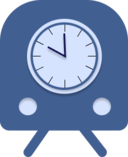
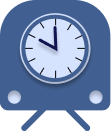
add how to use page

diff --git a/how-to-use.html b/how-to-use.html
@@ -1,0 +1,94 @@
+<!DOCTYPE html>
+<html lang="en">
+
+<head>
+    <meta charset="UTF-8">
+    <meta name="viewport" content="width=device-width, initial-scale=1.0">
+    <title>Tatkal Ticket Booking - How to Use</title>
+    <link rel="icon" type="image/svg" href="images/icon.svg">
+    <link href="https://stackpath.bootstrapcdn.com/bootstrap/4.5.2/css/bootstrap.min.css" rel="stylesheet">
+    <link rel="stylesheet" href="options.css">
+</head>
+
+<body>
+    <div class="container mt-5">
+        <h2>How to Use the Tatkal Ticket Booking Extension</h2>
+        <section class="step-section mt-2">
+            <h3>Fill All the Form Login Details,Train Details,Payment Details</h3>
+            <ol>
+                <li>Fill in your login details. Don't worry, your information is safe and stored securely in your Chrome
+                    local storage.</li>
+                <li>Enter the details of the trains you want to book Tatkal tickets for. You can use the
+                    <code>Go to IRCTC Website</code> button to find the required information and fill it in the form.
+                </li>
+                <li>We provide default payment options via Paytm UPI, which is faster compared to other payment methods.
+                </li>
+                <li>If you want to see the final QR code page for payment, check the box labeled
+                    <code>Pay & Book (Show QR Code Page)</code>.
+                </li>
+                <li>
+                    <strong>Timer Details:</strong>
+                    <ol>
+                        <li><code>Tatkal Start Timer</code>:
+                            <ul>
+                                <li>If you select <code>AC class</code>, Tatkal start timer will be set for
+                                    <code>09:59:45</code>.
+                                </li>
+                                <li>If you select <code>Sleeper class</code>, Tatkal start timer will be set for
+                                    <code>10:59:45</code>.
+                                </li>
+                                <li>We recommend using the default timer settings.</li>
+                            </ul>
+                        </li>
+                        <li><code>Refresh Time (ms)</code>: Default is set to 5000 milliseconds (5 seconds). This will
+                            refresh the train availability status every 5 seconds on the IRCTC page.</li>
+                    </ol>
+                </li>
+                <li>The Tatkal start timer will refresh the selected train every 5 seconds after clicking
+                    the search train button.</li>
+                <li>Once you've filled all the details, click on the <code>Save Settings</code> button.</li>
+            </ol>
+        </section>
+
+        <section class="step-section">
+            <h3>Auto Booking Switch</h3>
+            <ul>
+                <li>If the switch is turned on, the extension will run automatically whenever you visit the IRCTC
+                    website
+                    and attempt to book tickets using the provided settings and passenger details.</li>
+                <li>If the switch is turned off, the extension will not run on the IRCTC page.</li>
+                <li>If the switch is on and Tatkal start timer is set, the extension will automatically log in 2 minutes
+                    before the start timer, and the <code>Go to IRCTC Website</code> button will disappear.</li>
+                <li>If the switch is on and Tatkal start timer is set, and there is less than 2 minutes available before
+                    the start timer, the <code>Book Ticket on IRCTC</code> button will appear, allowing you to book
+                    manually.</li>
+            </ul>
+        </section>
+
+        <section class="step-section">
+            <h3>How to Add a New Passenger</h3>
+            <ol>
+                <li>Fill in the passenger's details including name, age, gender, and preference.</li>
+                <li>Click on the <code>Add Passenger</code> button.</li>
+                <li>The newly added passenger will be automatically selected for Tatkal ticket booking.</li>
+                <li>If you don't want to include a passenger in the booking, you can uncheck or delete them.</li>
+            </ol>
+        </section>
+
+        <section class="step-section">
+            <h3>What to Do on the IRCTC Site While Booking?</h3>
+            <ul>
+                <li>At the login prompt, fill in the captcha and press Enter on your keyboard.</li>
+                <li>At the Review and Captcha Page, a prompt will appear displaying the Current Seats Status: . Use this
+                    information to decide whether to
+                    proceed with booking the ticket. If you decide to proceed, fill in the captcha shown on the page in
+                    the
+                    prompt, then press Enter on your keyboard.</li>
+            </ul>
+        </section>
+
+    </div>
+
+</body>
+
+</html>

diff --git a/options.js b/options.js
@@ -168,8 +168,8 @@ document
   .getElementById('automationStatus')
   .addEventListener('change', function () {
     chrome.storage.local.set({ automationStatus: this.checked });
-    startBookingCountdown();
     updateButtonText();
+    startBookingCountdown();
   });
 
 // Function to start the countdown timer for booking
@@ -239,12 +239,11 @@ function startBookingCountdown() {
           clickTime
         );
         if(timeDifferenceInSeconds<0){
-          // alert('Please set correct tatkal start timer, keep it 15 seconds before the actual tatkal time');
-          // chrome.storage.local.set({automationStatus:false});
+          document.getElementById('book-train').classList.remove('d-none');
           return;
         } 
         setTimeout(clickBookTicketButton, timeDifferenceInSeconds * 1000); // Convert seconds to milliseconds
-
+        document.getElementById('book-train').classList.add('d-none');
         // Update the time remaining on the screen
         updateTimeRemaining(timeDifferenceInSeconds);
 
@@ -283,8 +282,10 @@ async function updateButtonText() {
   const button = document.getElementById('book-train');
 
   if (automationStatus) {
+    button.classList.add('d-none');
     button.textContent = 'Book Ticket on IRCTC';
   } else {
+    button.classList.remove('d-none');
     button.textContent = 'Go To IRCTC Website';
   }
 }

diff --git a/options.css b/options.css
@@ -262,3 +262,34 @@ table select {
   width: 100%;
   height: 40px;
 }
+
+.custom-outline-btn {
+  color: var(--md-sys-color-primary);
+  background-color: transparent;
+  border: 1px solid var(--md-sys-color-primary);
+  padding: 0.375rem 0.75rem;
+  text-decoration: none;
+  font-size: 1rem;
+  line-height: 1.5;
+  border-radius: 0.25rem;
+  transition: color 0.15s ease-in-out, background-color 0.15s ease-in-out, border-color 0.15s ease-in-out,
+      box-shadow 0.15s ease-in-out;
+}
+
+.custom-outline-btn:hover {
+  color: var(--md-sys-color-on-primary);
+  background-color: var(--md-sys-color-primary);
+  border-color: var(--md-sys-color-primary);
+  text-decoration: none;
+}
+
+.step-section {
+  margin-bottom: 20px;
+  background-color: var(--md-sys-color-primary-container);
+  border-radius: 20px;
+  padding: 20px;
+}
+.how-to-use{
+  background-color: var(--md-sys-color-primary-container);
+  color: var(--md-sys-color-on-primary-container);
+}

diff --git a/options.html b/options.html
@@ -15,7 +15,12 @@
   <div class="container mt-5">
     <div class="row align-items-center">
       <div class="col">
-        <h2> <span class="mr-2"><img src="images/icon.svg" height="40px"  alt="tatkal ticket"></span> Tatkal Ticket Booking</h2>
+        <h2> <span class="mr-2"><img src="images/icon.svg" height="40px"  alt="tatkal ticket">
+        </span> Tatkal Ticket Booking
+        <a href="how-to-use.html" target="_blank" class="custom-outline-btn">How to Use</a>
+      </h2>
+        
+
       </div>
       <div id="countdown" class="mr-3 pr-3">
 
